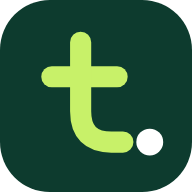
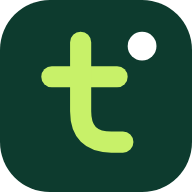
Relay's dot at the t's top right, and a round dot on the wordmark's i
The mark's white dot moves from the end of the t's foot to its top
right, where signal's square is; the 16 to 24 px mark now keeps it. The
wordmark draws the i's dot itself, round, in signal's place: pine on
light backgrounds, lime on the reversed wordmark (lime stays on pine).
make.py draws the SVGs; the icons, the profile picture, the link image
and the website's logo are re-rendered from them. Decision 0043 notes the
change.

Changed region(s): [[0.6562, 0.1562, 0.8438, 0.3438], [0.6875, 0.6562, 0.875, 0.8125]]

diff --git a/web/src/brand.ts b/web/src/brand.ts
@@ -1,7 +1,7 @@
-// Taskiem's own look (decision 0043): relay, a "t" handing on to a dot in
-// pine and lime, is the brand. Seal and signal, the other two directions,
-// are kept to experiment with: ?brand=seal (or signal, or relay) in the
-// address switches this browser to it and remembers it. Applied as
+// Taskiem's own look (decision 0043): relay, a "t" with a dot at its top
+// right in pine and lime, is the brand. Seal and signal, the other two
+// directions, are kept to experiment with: ?brand=seal (or signal, or relay)
+// in the address switches this browser to it and remembers it. Applied as
 // data-brand on <html> before the first paint (main.tsx), with the tab
 // icon to match; the colours are in styles.css, the files in
 // public/brand/<brand>/ (made by docs/brand/make.py).

diff --git a/docs/brand/make.py b/docs/brand/make.py
@@ -38,10 +38,16 @@ def word(text, track):
     return " ".join(paths), round(x - track * upm), idot
 
 
-def wordmark(text, track, fill, dotfill=None):
+def wordmark(text, track, fill, dotfill=None, round_dot=False):
     letters, width, idot = word(text, track)
     top = -cap - 30 if idot is None else idot[1] - 10
-    dot = "" if idot is None else f'<rect x="{idot[0]}" y="{idot[1]}" width="{idot[2]}" height="{idot[2]}" fill="{dotfill or fill}"/>'
+    if idot is None:
+        dot = ""
+    elif round_dot:
+        r = idot[2] / 2
+        dot = f'<circle cx="{idot[0] + r:g}" cy="{idot[1] + r:g}" r="{r:g}" fill="{dotfill or fill}"/>'
+    else:
+        dot = f'<rect x="{idot[0]}" y="{idot[1]}" width="{idot[2]}" height="{idot[2]}" fill="{dotfill or fill}"/>'
     return (f'<svg xmlns="http://www.w3.org/2000/svg" viewBox="0 {top} {width} {-top + 24}" role="img" aria-label="Taskiem">'
             f'<path fill="{fill}" d="{letters}"/>{dot}</svg>\n')
 
@@ -50,24 +56,27 @@ def svg(body):
     return f'<svg xmlns="http://www.w3.org/2000/svg" viewBox="0 0 100 100" role="img" aria-label="Taskiem">{body}</svg>\n'
 
 
-# --- B, relay (the default): a "t" whose foot hands on to a dot, in pine and lime.
+# --- B, relay (the default): a "t" with a round dot at its top right, as
+# signal's square is, in pine and lime; the i's dot is a round one too.
 def relay():
     pine, lime = "#0d3b2e", "#c8f169"
     t = ('<path d="M27 40H61" stroke="{t}" stroke-width="11" stroke-linecap="round"/>'
          '<path d="M42 22V58Q42 74 58 74H64" stroke="{t}" stroke-width="11" stroke-linecap="round" fill="none"/>'
-         '<circle cx="78" cy="74" r="7" fill="{d}"/>')
-    small = '<path d="M24 40H64M42 18V60Q42 78 60 78H70" stroke="{t}" stroke-width="16" stroke-linecap="round" fill="none"/>'
+         '<circle cx="74" cy="24" r="7.5" fill="{d}"/>')
+    small = ('<path d="M24 40H64M42 18V60Q42 78 60 78H70" stroke="{t}" stroke-width="16" stroke-linecap="round" fill="none"/>'
+             '<circle cx="78" cy="20" r="10" fill="{d}"/>')
+    # For a round crop: the dot stays inside the middle 80% a phone keeps.
     round_ = ('<path d="M30 41H60" stroke="{t}" stroke-width="10" stroke-linecap="round"/>'
               '<path d="M43 25V57Q43 71 57 71H62" stroke="{t}" stroke-width="10" stroke-linecap="round" fill="none"/>'
-              '<circle cx="74" cy="71" r="6" fill="{d}"/>')
+              '<circle cx="71" cy="27" r="6.5" fill="{d}"/>')
     return {
-        "wordmark.svg": wordmark("taskiem", -0.035, pine),
-        "wordmark-reversed.svg": wordmark("taskiem", -0.035, WHITE),
-        "wordmark-mono.svg": wordmark("taskiem", -0.035, BLACK),
+        "wordmark.svg": wordmark("taskıem", -0.035, pine, round_dot=True),
+        "wordmark-reversed.svg": wordmark("taskıem", -0.035, WHITE, lime, round_dot=True),
+        "wordmark-mono.svg": wordmark("taskıem", -0.035, BLACK, round_dot=True),
         "mark.svg": svg(f'<rect width="100" height="100" rx="26" fill="{pine}"/>' + t.format(t=lime, d=WHITE)),
         "mark-reversed.svg": svg(f'<rect width="100" height="100" rx="26" fill="{lime}"/>' + t.format(t=pine, d=pine)),
         "mark-mono.svg": svg(f'<rect width="100" height="100" rx="26" fill="{BLACK}"/>' + t.format(t=WHITE, d=WHITE)),
-        "mark-small.svg": svg(f'<rect width="100" height="100" rx="24" fill="{pine}"/>' + small.format(t=lime)),
+        "mark-small.svg": svg(f'<rect width="100" height="100" rx="24" fill="{pine}"/>' + small.format(t=lime, d=WHITE)),
         "avatar.svg": svg(f'<rect width="100" height="100" fill="{pine}"/>' + round_.format(t=lime, d=WHITE)),
     }
 

diff --git a/docs/brand/README.md b/docs/brand/README.md
@@ -1,6 +1,6 @@
 # Taskiem's brand
 
-Taskiem's look ([decision 0043](../decisions/0043-taskiem-brand.md)): a "t" whose foot hands the work on to a dot, in pine and lime.
+Taskiem's look ([decision 0043](../decisions/0043-taskiem-brand.md)): a "t" with a round dot at its top right, in pine and lime, and "taskiem" whose i carries the same round dot.
 
 Building or changing a screen in the web app? Follow [Building screens in Taskiem's look](screens.md): the colours, type, layout, components, words and checks every screen uses.
 
@@ -10,7 +10,7 @@ Three directions were drawn; relay is Taskiem's brand, and the other two are kep
 
 | Folder | Direction |
 | --- | --- |
-| `relay/` | **The brand.** A lime "t" on pine whose foot hands the work on to a white dot; "taskiem" in pine |
+| `relay/` | **The brand.** A lime "t" on pine with a white dot at its top right; "taskiem" in pine, the i's dot a round one (lime on pine) |
 | `seal/` | A vermilion round stamp with a tilted T; "Taskiem" in ink blue |
 | `signal/` | A white "t" and a saffron square on ink; "taskiem" with a saffron square for the i's dot |
 
@@ -32,7 +32,7 @@ Each folder holds the same files:
 | `wordmark-mono.svg` | Black, for print |
 | `og.png` | The picture a shared link shows (1200 × 630) |
 
-The wordmarks' letters are outlines of Plus Jakarta Sans ExtraBold (SIL Open Font License), so they look the same everywhere without the font. `make.py` draws every SVG from the font, all three brands at once; change it and rerun it rather than editing the files by hand. The PNGs are the SVGs rendered at size.
+Relay's and signal's wordmarks draw the i's dot themselves, placed where signal's square is: relay's is round, pine on light backgrounds and lime on pine (the reversed wordmark), so lime stays on pine. The wordmarks' letters are outlines of Plus Jakarta Sans ExtraBold (SIL Open Font License), so they look the same everywhere without the font. `make.py` draws every SVG from the font, all three brands at once; change it and rerun it rather than editing the files by hand. The PNGs are the SVGs rendered at size.
 
 The web app serves its copies from `web/public/brand/<brand>/` (the tab icon, the phone home-screen icon, the mark, the wordmark). For relay it also serves the install icons the app's manifest (`web/public/manifest.json`) names: `icon-192.png` and `mark-512.png` from `mark.svg`, and `maskable-192.png` and `maskable-512.png` from `avatar.svg`, whose square background lets a phone cut its own shape; the "t" and the dot sit inside the middle 80% a phone keeps.
 
@@ -42,7 +42,7 @@ The web app serves its copies from `web/public/brand/<brand>/` (the tab icon, th
 | --- | --- | --- |
 | Pine | `#0d3b2e` | The brand. Buttons, links, headings on light backgrounds, colour blocks |
 | Lime | `#c8f169` | On pine only: the "t", highlights, a button on a pine block. Never text on white (it does not read) |
-| White | `#ffffff` | The dot; text on pine |
+| White | `#ffffff` | The mark's dot; text on pine |
 | Mist | `#f1f4ef` | Light backgrounds |
 
 In the app's dark theme, lime takes pine's place as the accent.

diff --git a/docs/decisions/0043-taskiem-brand.md b/docs/decisions/0043-taskiem-brand.md
@@ -16,6 +16,8 @@ The mark has to work small first: the most-seen version is a round WhatsApp prof
 4. **Applied** to the web app (accent and primary colours, the tab and home-screen icons, the mark in the sidebar and top bar, the sign-in page, the agent and operator consoles), the website mockup and the docs site, and the profile picture and link image in `docs/brand/relay/`.
 5. **The other two directions are kept** (`docs/brand/seal/`, `docs/brand/signal/`, drawn by the same `make.py`), and the web app shows either with `?brand=seal` or `?brand=signal`, for this browser only, so they can be compared on the real product before the brand is final.
 
+**Amended 27 October 2026.** The mark's dot moves from the end of the foot to the "t"'s top right, where signal's square is, and stays round and white; the 16 to 24 px mark keeps it. The wordmark's i takes a round dot of its own in the same place as signal's: pine on light backgrounds, lime on the reversed wordmark.
+
 ## Alternatives considered
 
 Three directions were drawn and tried on the website (the brand canvas): a round seal with a tilted T (approvals), this mark, and a black-and-white wordmark with a saffron square for the i's dot. This mark was also drawn in five other colour pairs. The seal's red read as "error" across a whole site; the square wordmark was calm but had no mark of its own for a profile picture; pine and lime is the mark as first drawn.
